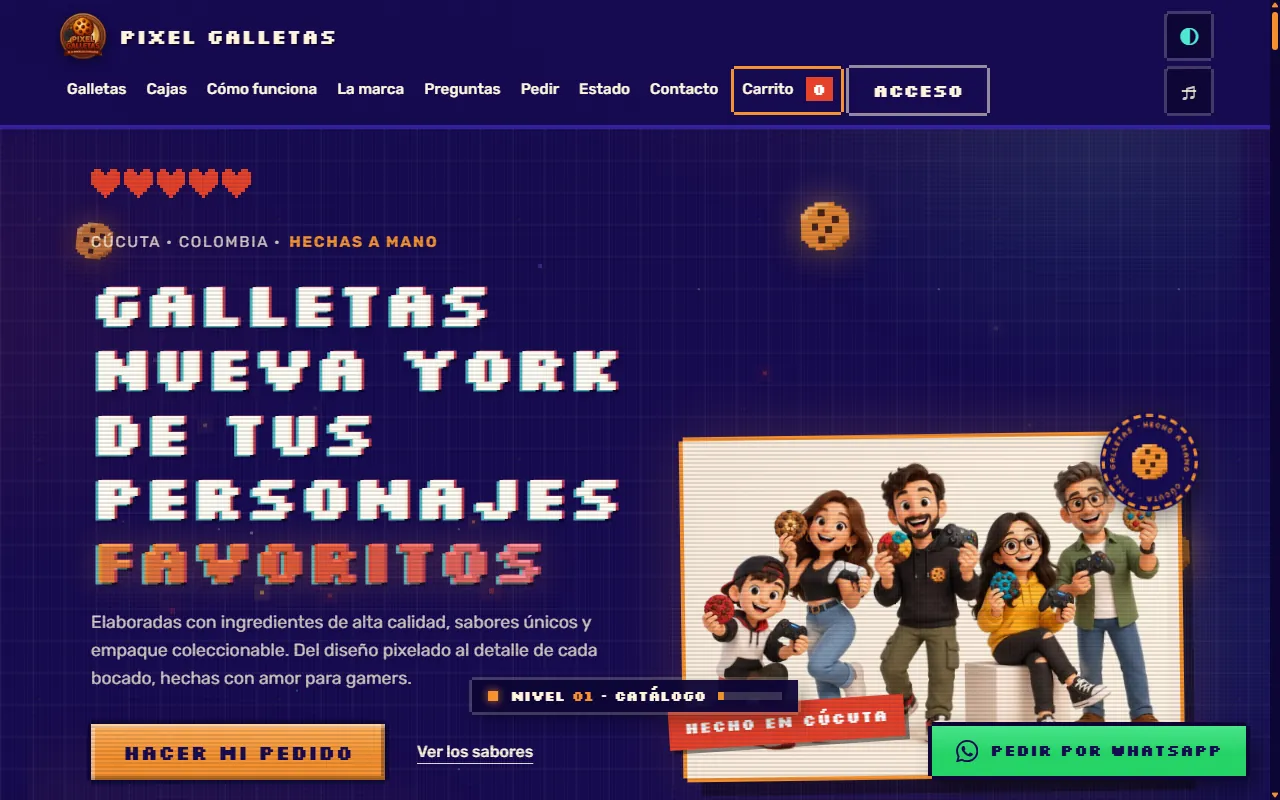
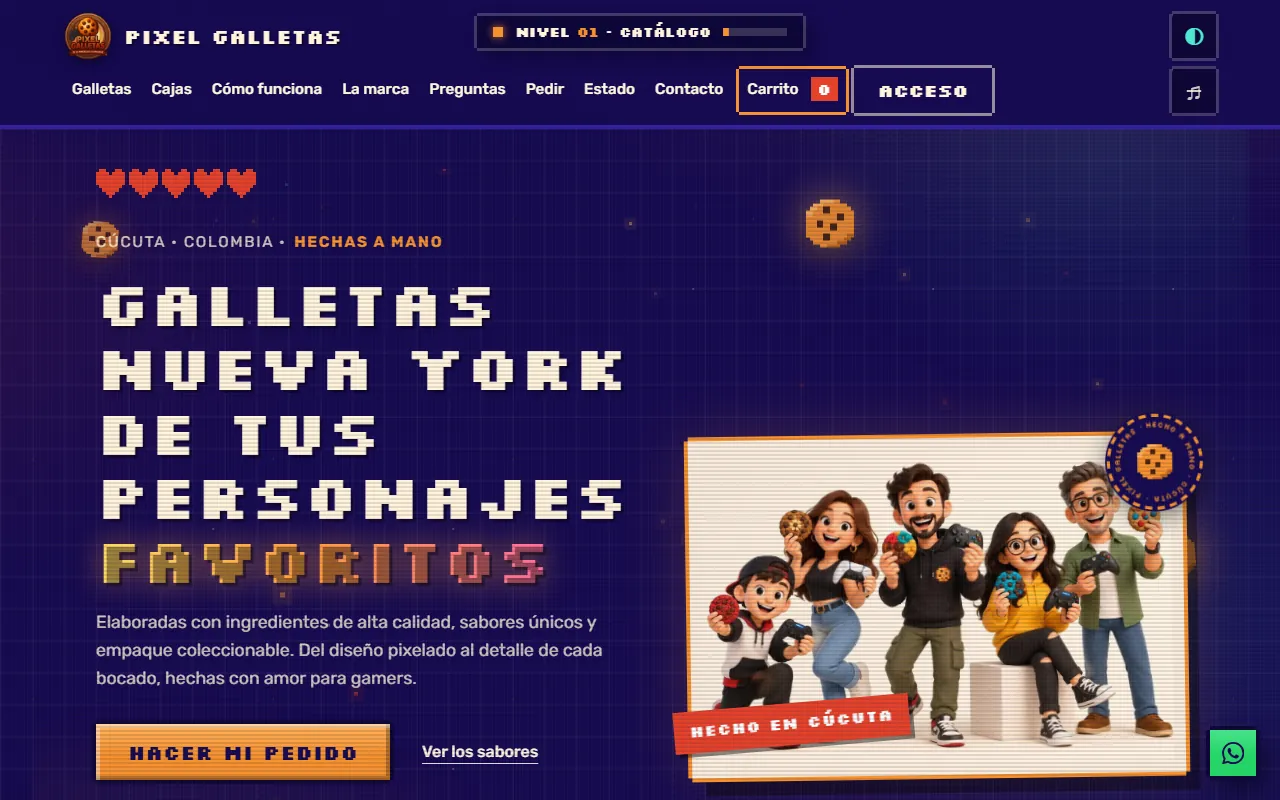
Actualiza precios según el presupuesto y protege el carrito entre cuentas
Galleta normal a $7.000, Special a $9.500, combos a $22.000, $31.000 y
$46.000. La entrega gratis de la caja mensual queda solo en la x12. Una
cuenta ya no hereda el carrito de otra cuya sesión venció.

diff --git a/public/index.html b/public/index.html
@@ -78,7 +78,7 @@
     "slogan": "De la pantalla a tu paladar",
     "image": "/img/contacto.jpg",
     "telephone": "+57 313 783 9935",
-    "priceRange": "$6.000–$7.500",
+    "priceRange": "$7.000–$9.500",
     "address": { "@type": "PostalAddress", "streetAddress": "Ceiba 2", "addressLocality": "Cúcuta", "addressRegion": "Norte de Santander", "addressCountry": "CO" },
     "sameAs": ["https://www.instagram.com/pixel_galletas/"]
   }
@@ -438,7 +438,7 @@
         <!-- Cifras del negocio: datos reales del catálogo y del modelo DYME -->
         <ul class="cifras">
           <li><b data-sabores="cifra">6</b><span>sabores en catálogo</span></li>
-          <li><b>$6.000</b><span>precio desde, por galleta</span></li>
+          <li><b>$7.000</b><span>precio desde, por galleta</span></li>
           <li><b>3</b><span>presentaciones de caja</span></li>
           <li><b>100%</b><span>hechas a mano</span></li>
         </ul>
@@ -520,7 +520,7 @@
           </figure>
         </li>
         <li class="bento-dato"><b data-sabores="cifra">6</b><span>sabores en catálogo</span></li>
-        <li class="bento-dato"><b>$6.000</b><span>precio desde, por galleta</span></li>
+        <li class="bento-dato"><b>$7.000</b><span>precio desde, por galleta</span></li>
         <li class="bento-cita">
           <p>Cada galleta es un personaje con su propia historia. Las hacemos a mano para que abrir la caja se sienta como abrir un cofre de juego.</p>
           <cite>El obrador Pixel Galletas</cite>
@@ -544,20 +544,20 @@
         <li class="caja">
           <h3>Caja Pixel x4</h3>
           <p class="caja-para">Regalo</p>
-          <p class="caja-precio">$ 24.000</p>
+          <p class="caja-precio">$ 28.000</p>
           <p class="caja-detalle">Cuatro galletas a tu elección en presentación de regalo, con mensaje personalizado.</p>
         </li>
         <li class="caja caja-destacada">
           <span class="caja-insignia">La más pedida</span>
           <h3>Caja Pixel x6</h3>
           <p class="caja-para">Para compartir</p>
-          <p class="caja-precio">$ 36.000</p>
+          <p class="caja-precio">$ 42.000</p>
           <p class="caja-detalle">Seis galletas surtidas o a tu elección, listas para compartir en casa o en la oficina.</p>
         </li>
         <li class="caja">
           <h3>Caja Pixel x12</h3>
           <p class="caja-para">Eventos y celebraciones</p>
-          <p class="caja-precio">$ 68.400</p>
+          <p class="caja-precio">$ 79.800</p>
           <p class="caja-detalle">Doce galletas para reuniones, cumpleaños y equipos, ya con el 5% de descuento por volumen. Preparación con anticipo y plazo acordado.</p>
         </li>
       </ul>
@@ -568,14 +568,14 @@
           <li class="caja">
             <h3>Combo Pixel x1</h3>
             <p class="caja-para">1 Special + 2 normales</p>
-            <p class="caja-precio">$ 26.000</p>
+            <p class="caja-precio">$ 22.000</p>
             <p class="caja-detalle">Una Pixel Special Edition con dos galletas normales de tu elección.</p>
             <a class="boton-grande" href="/combo-personalizado.html?especiales=1&normales=2">Elegir</a>
           </li>
           <li class="caja">
             <h3>Combo Pixel x2</h3>
             <p class="caja-para">2 Special + 2 normales</p>
-            <p class="caja-precio">$ 36.000</p>
+            <p class="caja-precio">$ 31.000</p>
             <p class="caja-detalle">Dos Pixel Special Edition con dos galletas normales de tu elección.</p>
             <a class="boton-grande" href="/combo-personalizado.html?especiales=2&normales=2">Elegir</a>
           </li>
@@ -583,7 +583,7 @@
             <span class="caja-insignia">Mayor utilidad</span>
             <h3>Combo Pixel x3</h3>
             <p class="caja-para">3 Special + 3 normales</p>
-            <p class="caja-precio">$ 52.000</p>
+            <p class="caja-precio">$ 46.000</p>
             <p class="caja-detalle">Tres Pixel Special Edition con tres galletas normales de tu elección.</p>
             <a class="boton-grande" href="/combo-personalizado.html?especiales=3&normales=3">Elegir</a>
           </li>
@@ -607,15 +607,15 @@
         <div>
           <h3>Caja mensual</h3>
           <!-- Los precios salen de la escalera real de descuentos, no de un
-               número escogido aparte: 6 × $6.000 y 12 × $6.000 con el 5%. El
-               gancho de la suscripción es la entrega gratis y el acceso
+               número escogido aparte: 6 × $7.000 y 12 × $7.000 con el 5%. El
+               gancho de la suscripción es la entrega gratis en la x12 y el acceso
                anticipado, no un descuento que el resto del sitio no respalde. -->
           <p>Eliges el tamaño una vez y cada mes te llega tu caja con sabores seleccionados, novedades del obrador y acceso anticipado a las ediciones especiales.</p>
           <ul class="mensual-planes">
-            <li><b>Caja x6</b> <span>$ 36.000 / mes</span></li>
-            <li><b>Caja x12</b> <span>$ 68.400 / mes</span></li>
+            <li><b>Caja x6</b> <span>$ 42.000 / mes</span></li>
+            <li><b>Caja x12</b> <span>$ 79.800 / mes</span></li>
           </ul>
-          <p class="mensual-nota">Entrega gratis en Cúcuta y alrededores. Sin contrato ni cobro automático: confirmas por WhatsApp y pagas por Nequi o en efectivo al recibir, y puedes pausar el mes que no quieras.</p>
+          <p class="mensual-nota">La Caja x12 lleva entrega gratis en Cúcuta y alrededores; la x6 paga el domicilio normal. Sin contrato ni cobro automático: confirmas por WhatsApp y pagas por Nequi o en efectivo al recibir, y puedes pausar el mes que no quieras.</p>
           <button type="button" class="mensual-recordar" id="btn-recordar-mensual">Recordarme el próximo mes en el calendario</button>
           <p class="mensual-recordatorio" id="mensual-recordatorio" role="status" aria-live="polite"></p>
         </div>

diff --git a/tests/pedidos.test.js b/tests/pedidos.test.js
@@ -142,6 +142,8 @@ test("Carrito al iniciar sesión: une el carrito local con el de la cuenta suman
 
 test("Carrito: recargar la página con la misma cuenta no duplica el carrito", async () => {
   const { Carrito, Sesion } = await cargar();
+  // Sin la marca de la cuenta de otra prueba: su carrito no se heredaría.
+  localStorage.removeItem(Carrito.CLAVE_UNION);
   Sesion.guardar("token-de-prueba", { id: 5, nombre: "Ana" });
   // El servidor guarda lo que el cliente envió: así simulamos la cuenta entre cargas.
   let servidor = [];
@@ -277,7 +279,7 @@ test("Combos: el carrito cobra el combo a precio fijo y sin descuento por volume
     { producto_id: 2, nombre: "Galleta A", precio: 5000, cantidad: 2 },
   ];
   assert.equal(carrito.combo.nombre, "Combo Pixel x1");
-  assert.equal(carrito.total, 26000);
+  assert.equal(carrito.total, 22000);
   assert.equal(carrito.descuento.valor, 0);
 });
 
@@ -289,7 +291,7 @@ test("Combos: 3 Special + 3 normales cobran el combo x3, no tres x1", async () =
     { producto_id: 2, nombre: "Galleta A", precio: 5000, cantidad: 3 },
   ];
   assert.equal(carrito.combo.nombre, "Combo Pixel x3");
-  assert.equal(carrito.subtotal, 52000);
+  assert.equal(carrito.subtotal, 46000);
 });
 
 test("Combos: sin el número exacto de normales no se aplica el combo", async () => {
@@ -307,10 +309,10 @@ test("Calculadora: calcula el combo, el ahorro y el precio por galleta; sin mezc
   const x2 = calcularCombo(2, 2, 4849, 5000);
   assert.equal(x2.valido, true);
   assert.equal(x2.nombre, "Combo Pixel x2");
-  assert.equal(x2.precio, 36000);
+  assert.equal(x2.precio, 31000);
   assert.equal(x2.sueltas, 2 * 4849 + 2 * 5000);
-  assert.equal(x2.ahorro, x2.sueltas - 36000);
-  assert.equal(x2.porGalleta, Math.round(36000 / 4));
+  assert.equal(x2.ahorro, x2.sueltas - 31000);
+  assert.equal(x2.porGalleta, Math.round(31000 / 4));
   const suelta = calcularCombo(1, 1, 4849, 5000);
   assert.equal(suelta.valido, false);
   assert.equal(suelta.sueltas, 4849 + 5000);
@@ -337,7 +339,7 @@ test("Armador: cada galleta normal entra con el sabor que el cliente eligió", a
   carrito.agregar(redVelvet);
   assert.equal(carrito.items.length, 3);
   assert.equal(comboDe(carrito.items).nombre, "Combo Pixel x1");
-  assert.equal(carrito.total, 26000);
+  assert.equal(carrito.total, 22000);
 });
 
 // ---------- Domicilio ----------
@@ -732,6 +734,26 @@ test("Sesión vencida: el carrito se queda, y al volver a entrar lo guardado es 
   limpiarCuenta();
 });
 
+test("Sesión vencida: otra cuenta en el mismo navegador no hereda ese carrito", async () => {
+  const { Carrito, Sesion } = await cargar();
+  limpiarCuenta();
+  Sesion.vencer();
+  memoria[Carrito.CLAVE_UNION] = "31";
+  memoria["pixel_galletas_carrito"] = JSON.stringify([lineaGuardada()]);
+  Sesion.guardar("token-otra", { id: 40, nombre: "Beto" });
+  const enviado = [];
+  const c = new Carrito({
+    hayCuenta: () => true,
+    obtener: async () => [lineaGuardada({ producto_id: 9, nombre: "Pixel Klim", cantidad: 1 })],
+    guardar: async (items) => { enviado.push(items.map((i) => [i.producto_id, i.cantidad])); },
+  });
+  await c.unirConCuenta();
+  assert.deepEqual(c.paraApi(), [{ producto_id: 9, cantidad: 1 }]);
+  assert.deepEqual(enviado, [[[9, 1]]]);
+  assert.equal(memoria[Carrito.CLAVE_UNION], "40");
+  limpiarCuenta();
+});
+
 test("Cerrar sesión a propósito sí saca el carrito, aunque antes hubiera vencido otra", async () => {
   const { Carrito, Sesion } = await cargar();
   limpiarCuenta();
@@ -803,16 +825,16 @@ test("textoPedido: un combo se nombra y el total cuadra con lo cobrado", async (
   const texto = textoPedido(new Pedido({
     id: 8, cliente_nombre: "Ana", cliente_telefono: "3001112233", estado: "pendiente",
     creado_en: new Date().toISOString(), direccion: "Calle 5", notas: null,
-    entrega: "cucuta", envio: "5000.00", total: "31000.00", descuento: "0.00",
+    entrega: "cucuta", envio: "5000.00", total: "27000.00", descuento: "0.00",
     detalles: [
       { nombre_sabor: "Pixel Special Edition", precio_unitario: "9000.00", cantidad: 1 },
       { nombre_sabor: "Pixel Monster", precio_unitario: "6000.00", cantidad: 2 },
     ],
   }));
-  assert.ok(texto.includes(`*Combo Pixel x1:* ${pesos(26000)}`));
+  assert.ok(texto.includes(`*Combo Pixel x1:* ${pesos(22000)}`));
   assert.ok(texto.includes("• 2 × Pixel Monster\n"), "las galletas del combo no llevan precio suelto");
   assert.ok(!texto.includes(pesos(12000)));
-  assert.ok(texto.includes(`*Total:* ${pesos(31000)}`));
+  assert.ok(texto.includes(`*Total:* ${pesos(27000)}`));
 });
 
 test("Reconciliar: las líneas que llegan de la cuenta también pasan por el catálogo", async () => {

diff --git a/public/js/pedidos.js b/public/js/pedidos.js
@@ -30,9 +30,9 @@ export const DESCUENTOS = [
 // exactamente con uno; prueba de paridad en tests.
 export const NOMBRE_SPECIAL = "Pixel Special Edition";
 export const COMBOS = [
-  { nombre: "Combo Pixel x1", especiales: 1, normales: 2, precio: 26000 },
-  { nombre: "Combo Pixel x2", especiales: 2, normales: 2, precio: 36000 },
-  { nombre: "Combo Pixel x3", especiales: 3, normales: 3, precio: 52000 },
+  { nombre: "Combo Pixel x1", especiales: 1, normales: 2, precio: 22000 },
+  { nombre: "Combo Pixel x2", especiales: 2, normales: 2, precio: 31000 },
+  { nombre: "Combo Pixel x3", especiales: 3, normales: 3, precio: 46000 },
 ];
 
 // items: [{ nombre, precio, cantidad }]. Devuelve el combo que aplica o null.
@@ -254,7 +254,10 @@ export class Carrito {
       // Después el servidor manda: sumar en cada carga duplicaba el carrito.
       // Excepto si quedaron cambios sin confirmar (falló el guardado, se cerró
       // la página o venció la sesión): ahí manda lo que el cliente ve aquí.
-      const yaUnida = localStorage.getItem(Carrito.CLAVE_UNION) === idCuenta;
+      const cuentaPrevia = localStorage.getItem(Carrito.CLAVE_UNION);
+      const yaUnida = cuentaPrevia === idCuenta;
+      // Lo guardado era de otra cuenta (su sesión venció sin cerrarla): no se hereda.
+      if (cuentaPrevia !== null && !yaUnida) this.items = [];
       const pendiente = localStorage.getItem(Carrito.CLAVE_PENDIENTE) !== null;
       if (yaUnida && !pendiente) {
         this.items = delServidor;

diff --git a/tests/mensajes.test.js b/tests/mensajes.test.js
@@ -18,7 +18,9 @@ test("Domicilio: todo texto con la tarifa base avisa del cargo por distancia", (
   const cargos = Object.values(RANGOS_DISTANCIA).map((r) => pesos(r.costo));
   let revisadas = 0;
   for (const pagina of ["public/index.html", "public/preguntas-gamer.html"]) {
-    for (const linea of lineas(leer(pagina)).filter((l) => bases.some((b) => l.includes(b)))) {
+    // $7.000 también es el precio de la galleta: esas líneas no hablan del domicilio.
+    const esDePrecio = (l) => /priceRange|precio desde|× \$/.test(l);
+    for (const linea of lineas(leer(pagina)).filter((l) => !esDePrecio(l) && bases.some((b) => l.includes(b)))) {
       revisadas++;
       assert.match(linea, /distancia/i, `${pagina}: sin distancia: ${linea.slice(0, 90)}`);
       // La opción del formulario se apoya en el selector de distancia de al

diff --git a/src/config/descuentos.js b/src/config/descuentos.js
@@ -18,9 +18,9 @@ const DESCUENTOS = [
 // elige los sabores). El servidor cobra el precio del combo solo cuando el
 // pedido trae exactamente esas galletas.
 const COMBOS = [
-  { nombre: "Combo Pixel x1", especiales: 1, normales: 2, precio: 26000 },
-  { nombre: "Combo Pixel x2", especiales: 2, normales: 2, precio: 36000 },
-  { nombre: "Combo Pixel x3", especiales: 3, normales: 3, precio: 52000 },
+  { nombre: "Combo Pixel x1", especiales: 1, normales: 2, precio: 22000 },
+  { nombre: "Combo Pixel x2", especiales: 2, normales: 2, precio: 31000 },
+  { nombre: "Combo Pixel x3", especiales: 3, normales: 3, precio: 46000 },
 ];
 
 // Descuento que le toca a un pedido de `unidades` galletas con `subtotal` pesos.

diff --git a/public/js/recordatorio.js b/public/js/recordatorio.js
@@ -35,7 +35,7 @@ if (boton) {
       `DTSTART:${fechaLocal(inicio)}`,
       `DTEND:${fechaLocal(fin)}`,
       `SUMMARY:${escapar("Pedir mi caja mensual Pixel Galletas")}`,
-      `DESCRIPTION:${escapar("Elige sabores y confirma por WhatsApp al 313 783 9935. Entrega gratis en Cúcuta y alrededores.")}`,
+      `DESCRIPTION:${escapar("Elige sabores y confirma por WhatsApp al 313 783 9935. La Caja x12 lleva entrega gratis en Cúcuta y alrededores.")}`,
       `URL:${location.origin}`,
       "END:VEVENT",
       "END:VCALENDAR",

diff --git a/public/js/efectos.js b/public/js/efectos.js
@@ -1018,7 +1018,7 @@ try {
   }
 
   // ===== Cifras de la portada: cuentan desde 0 al entrar en pantalla =====
-  // Cada <li> lleva su número en <b> (7, $6.000, 3, 100%). Al hacerse visible,
+  // Cada <li> lleva su número en <b> (7, $7.000, 3, 100%). Al hacerse visible,
   // el número sube desde 0 hasta su valor real, conservando el prefijo ($),
   // el sufijo (%) y el separador de miles del texto original. Con movimiento
   // reducido se queda el valor final tal cual está en el HTML.
